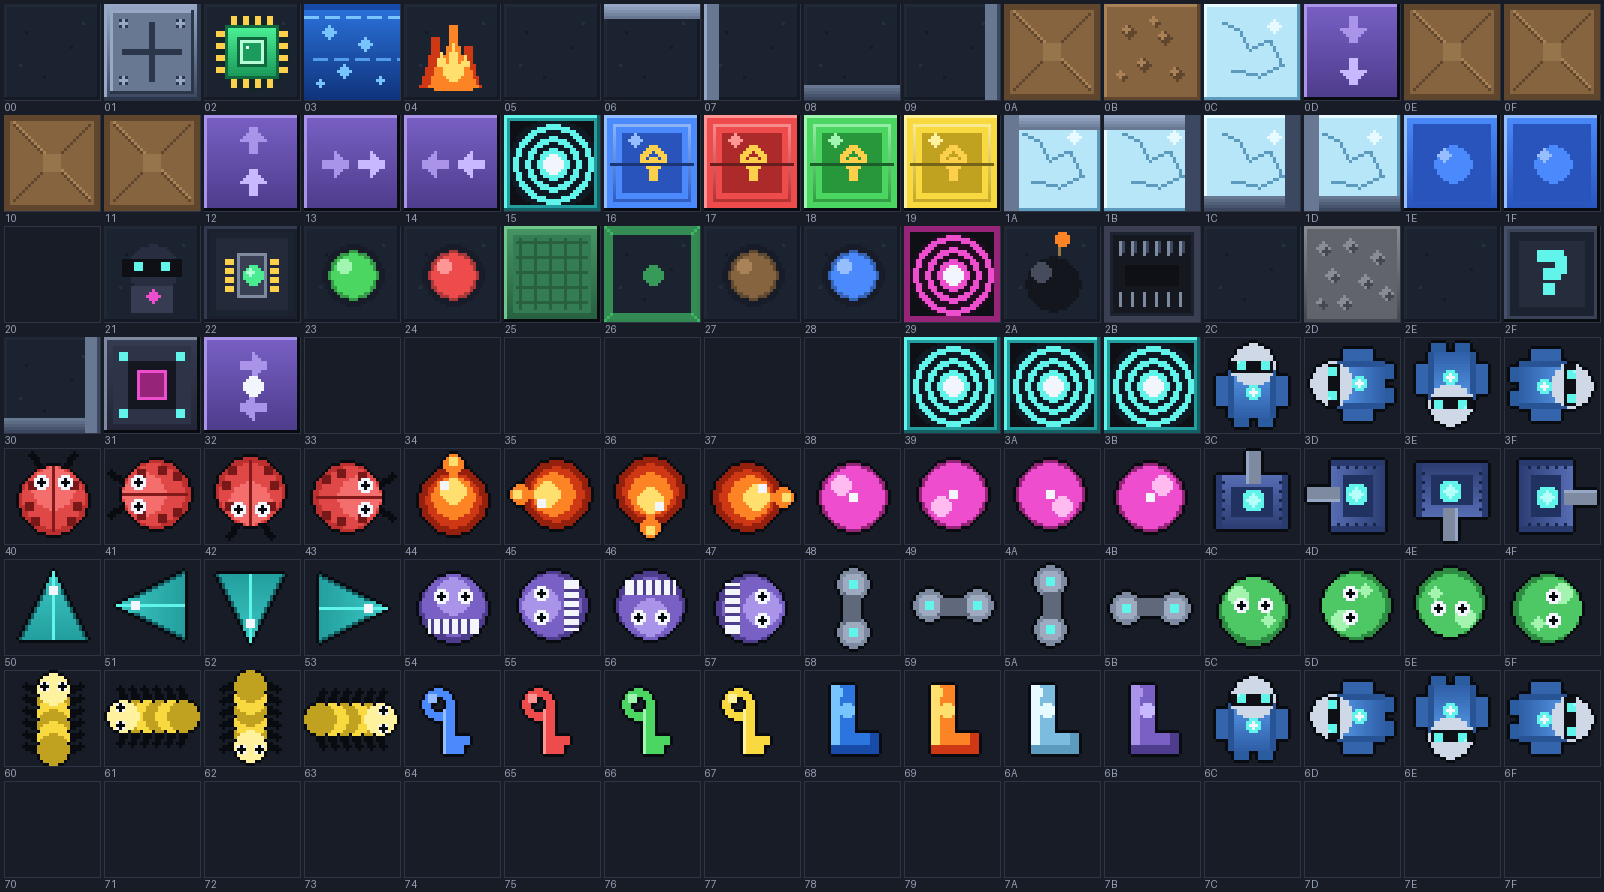
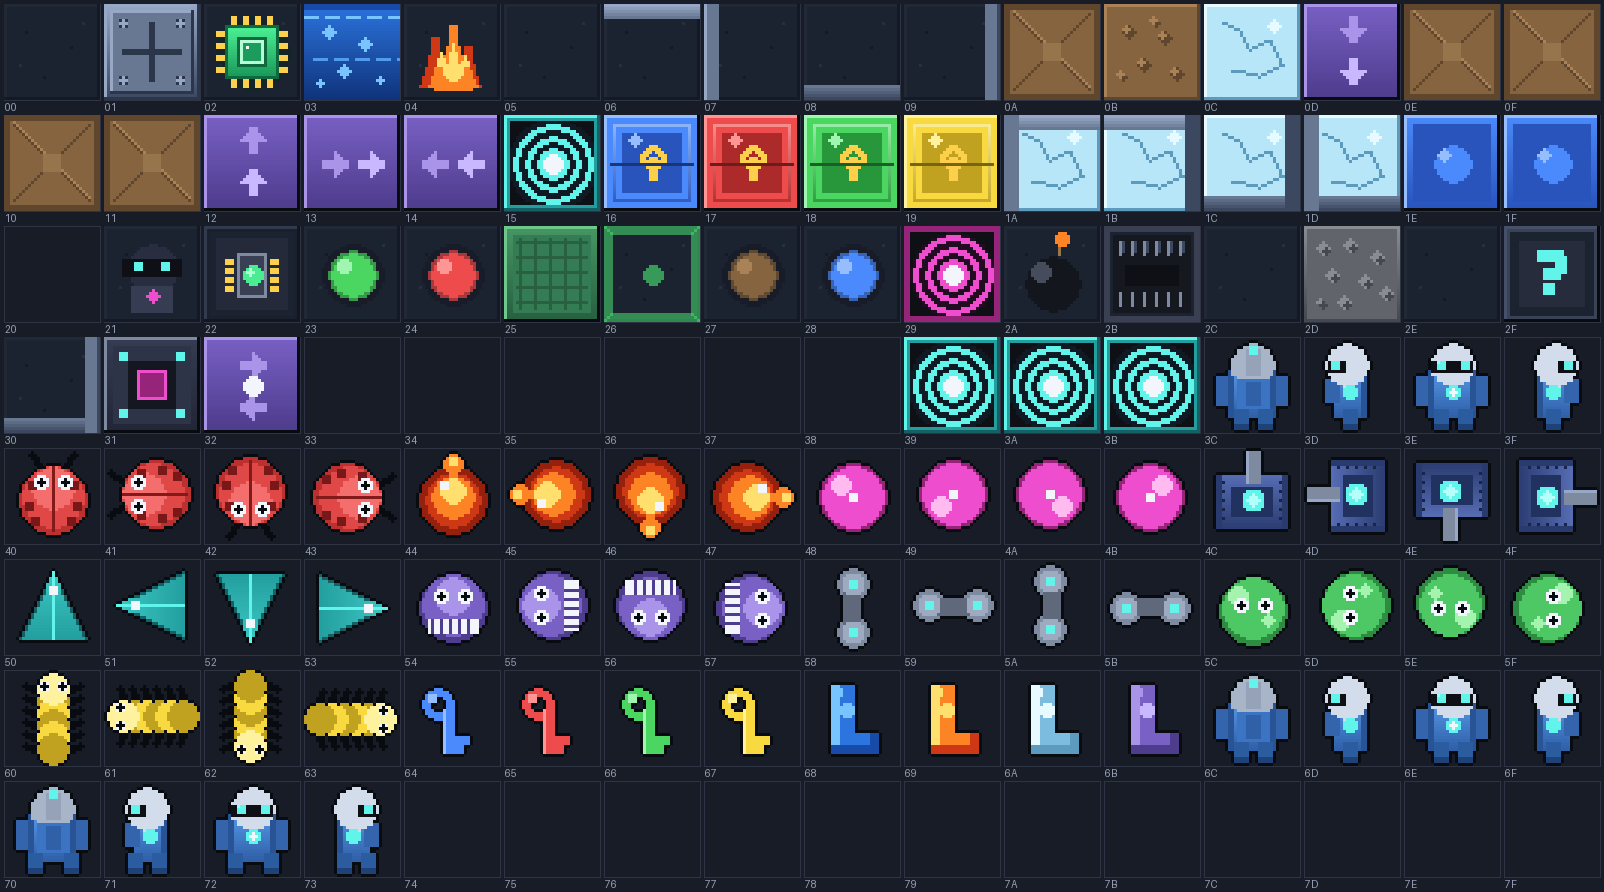
feat(circuitrunner): echte 4-Richtungs-Spieler-Sprites + sanftes Gleiten
Feedback (Spieler liegt/steht kopf bei links/rechts; springt grob aufs Feld):
- Spieler nicht mehr rotiert, sondern 4 echte Blickrichtungen gezeichnet:
  N=Ruecken (Antenne/Rueckenplatte, kein Gesicht), S=Gesicht (Visier+Augen+
  Brustkern), W/E=Seitenansicht (Visier zur Seite, gespiegelt). + Geh-Frames
  mit gespreizten Beinen (0x70-0x73), wechseln pro Tick beim Laufen.
- Sanftes Gleiten statt Snap: Render-Interpolation aller Entities (alte->neue
  Zelle ueber TICK_MS) + Sub-Pixel-Float-Kamera (Spieler bleibt mittig, Welt
  scrollt fluessig; an Levelraendern gleitet der Spieler im Bild). Haupt-Loop
  feuert max. 1 Tick/Frame + anim_t = tick_timer/TICK_MS.
- Headless verifiziert: Seitensprite (Blick rechts) + Spieler mid-glide
  zwischen zwei Feldern.

Changed region(s): [[0.0, 0.8778, 0.2494, 0.9989], [0.7481, 0.3632, 0.9975, 0.4843], [0.7481, 0.7567, 0.9975, 0.8475]]

diff --git a/circuitrunner/make_tiles.py b/circuitrunner/make_tiles.py
@@ -651,25 +651,81 @@ def b_paramecium():
     return c.im
 
 
-def b_player():
+PB = (84, 150, 230, 255)
+PB_D = (48, 96, 168, 255)
+PB_DD = (40, 84, 150, 255)
+PARM = (52, 100, 172, 255)
+PHELM = (210, 220, 234, 255)
+PHELM_D = (168, 180, 200, 255)
+PLEG = (44, 92, 160, 255)
+PFOOT = (30, 66, 120, 255)
+
+
+def _pbody(c):
+    c.vgrad(8, 11, 23, 26, PB, PB_D)
+    c.rect(8, 11, 9, 26, PB_DD)
+    c.rect(22, 11, 23, 26, PB_DD)
+    c.rect(4, 13, 7, 22, PARM)
+    c.rect(24, 13, 27, 22, PARM)
+
+
+def _plegs(c, step):
+    if step == 0:
+        c.rect(10, 24, 14, 30, PLEG); c.rect(18, 24, 22, 30, PLEG)
+        c.rect(10, 29, 14, 30, PFOOT); c.rect(18, 29, 22, 30, PFOOT)
+    else:
+        c.rect(8, 24, 12, 30, PLEG); c.rect(20, 24, 24, 30, PLEG)
+        c.rect(8, 29, 12, 30, PFOOT); c.rect(20, 29, 24, 30, PFOOT)
+
+
+def player_front(step):
     c = C()
-    # Beine/Schuhe
-    c.rect(10, 24, 14, 29, (44, 92, 160, 255)); c.rect(18, 24, 22, 29, (44, 92, 160, 255))
-    # Koerper
-    c.vgrad(8, 11, 23, 26, (84, 150, 230, 255), (48, 96, 168, 255))
-    c.rect(8, 11, 9, 26, (40, 84, 150, 255)); c.rect(22, 11, 23, 26, (40, 84, 150, 255))
-    # Arme
-    c.rect(4, 13, 7, 22, (52, 100, 172, 255)); c.rect(24, 13, 27, 22, (52, 100, 172, 255))
-    # Helm
-    c.disc(16, 9, 7, (206, 216, 230, 255))
-    c.rect(9, 7, 22, 12, (206, 216, 230, 255))
-    c.rect(9, 8, 22, 11, BLACK)            # Visier
+    _pbody(c)
+    _plegs(c, step)
+    c.disc(16, 9, 7, PHELM)
+    c.rect(9, 7, 22, 12, PHELM)
+    c.rect(9, 8, 22, 11, BLACK)             # Visier
     c.disc(12, 9, 1.4, NEON); c.disc(20, 9, 1.4, NEON)
     c.set(11, 8, (150, 255, 250, 255))
-    # Brustkern
-    c.disc(16, 18, 2.6, NEON); c.disc(16, 18, 1.2, WHITE)
+    c.disc(16, 18, 2.6, NEON); c.disc(16, 18, 1.2, WHITE)   # Brustkern
     c.outline()
     return c.im
+
+
+def player_back(step):
+    c = C()
+    _pbody(c)
+    _plegs(c, step)
+    c.disc(16, 9, 7, PHELM_D)
+    c.rect(9, 7, 22, 12, PHELM_D)
+    c.rect(14, 4, 18, 12, (150, 162, 184, 255))   # Naht hinten
+    c.disc(16, 4, 1.3, NEON)                        # Antenne
+    c.rect(11, 14, 21, 23, (60, 116, 196, 255))     # Rueckenpanel
+    c.rect(14, 15, 18, 22, PB_D)
+    c.outline()
+    return c.im
+
+
+def player_side(step, left):
+    c = C()
+    c.vgrad(11, 11, 21, 26, PB, PB_D)
+    c.rect(11, 11, 12, 26, PB_DD)
+    c.rect(20, 14, 24, 21, PARM)                    # vorderer Arm
+    if step == 0:
+        c.rect(14, 24, 18, 30, PLEG); c.rect(14, 29, 18, 30, PFOOT)
+    else:
+        c.rect(11, 24, 15, 30, PLEG); c.rect(19, 24, 23, 30, PLEG)
+        c.rect(11, 29, 15, 30, PFOOT); c.rect(19, 29, 23, 30, PFOOT)
+    c.disc(17, 9, 7, PHELM)
+    c.rect(11, 7, 23, 12, PHELM)
+    c.rect(18, 8, 23, 11, BLACK)                    # Visier vorne (rechts)
+    c.disc(21, 9, 1.4, NEON)
+    c.disc(16, 18, 2.2, NEON)
+    c.outline()
+    im = c.im
+    if left:
+        im = im.transpose(Image.FLIP_LEFT_RIGHT)
+    return im
 
 
 def rot4(base):
@@ -706,9 +762,14 @@ def build():
     cells[0x31] = t_cloner(); cells[0x32] = t_force_random()
     cells[0x39] = t_exit(); cells[0x3A] = t_exit(); cells[0x3B] = t_exit()
 
-    pl = rot4(b_player())
+    # Spieler: 4 echte Blickrichtungen (N=Ruecken, W=links, S=Gesicht, E=rechts)
+    # idle (Beine zusammen) bei 0x6C-0x6F + 0x3C-0x3F, Schritt (Beine auf) bei 0x70-0x73
+    idle = [player_back(0), player_side(0, True), player_front(0), player_side(0, False)]
+    walk = [player_back(1), player_side(1, True), player_front(1), player_side(1, False)]
     for i in range(4):
-        cells[0x3C + i] = pl[i]
+        cells[0x3C + i] = idle[i]
+        cells[0x6C + i] = idle[i]
+        cells[0x70 + i] = walk[i]
     for fn, base in ((b_bug, 0x40), (b_fireball, 0x44), (b_ball, 0x48), (b_tank, 0x4C),
                      (b_glider, 0x50), (b_teeth, 0x54), (b_walker, 0x58), (b_blob, 0x5C),
                      (b_paramecium, 0x60)):
@@ -723,8 +784,6 @@ def build():
     cells[0x69] = i_boot(FIRE, FIRE_D, FIRE_L, "fire")
     cells[0x6A] = i_boot(ICE_D, ICE_DD, ICE_L, "ice")
     cells[0x6B] = i_boot(PURP, PURP_D, PURP_L, "force")
-    for i in range(4):
-        cells[0x6C + i] = pl[i]
 
     cols, rows = 16, 8
     sheet = Image.new("RGBA", (cols * S, rows * S), T)
